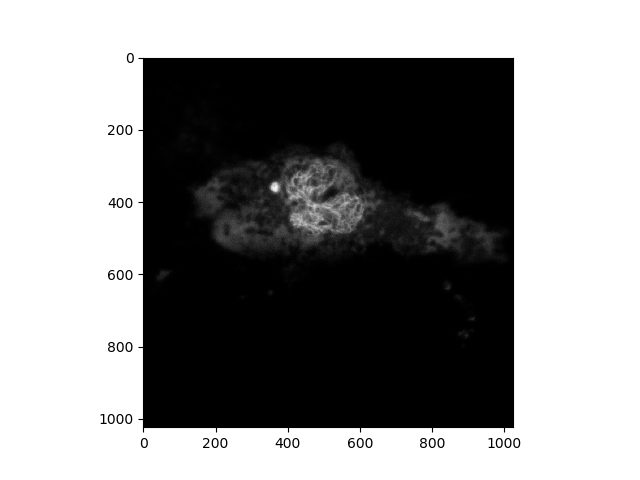
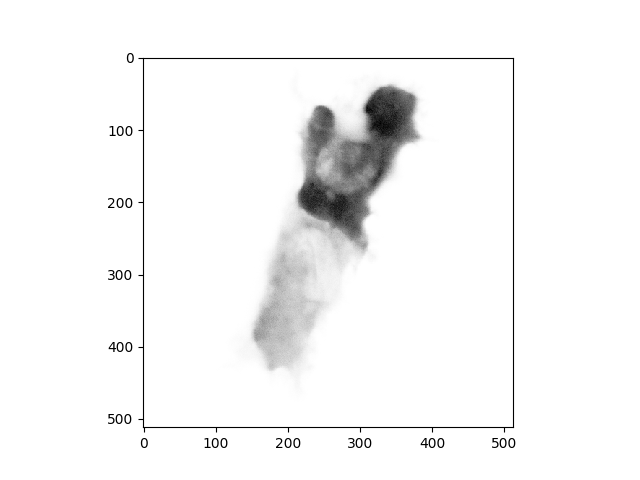
Added fitted lifetime to plot display and added user prompt to select channel for fitting.

diff --git a/app/pythonbackend/main.py b/app/pythonbackend/main.py
@@ -20,8 +20,12 @@ def main():
     FLIMInfo['channelList'] = recon.checkChannelAvailability(recordarray)
     print("******************************")
     print("\nFLIMInfo: ", FLIMInfo, "\n")
+    print("******************************")
+
+    channel = int(input("Select channel (integer): "))
+
     flimarray, intimage = recon.buildFLIMArray(recordarray,
-                                               0,
+                                               channel,
                                                FLIMInfo['LinesInFile'],
                                                FLIMInfo['PixelsX'],
                                                FLIMInfo['PixelsY'],
@@ -30,7 +34,7 @@ def main():
                                                0,
                                                4)
     recordarray = None
-    plt.imshow(intimage, cmap="gray")
+    plt.imshow(intimage, cmap="Greys")
     plt.savefig("imgOutput/out.png")
     plt.show()
 

diff --git a/app/pythonbackend/globalFitting.py b/app/pythonbackend/globalFitting.py
@@ -14,11 +14,13 @@ def globalTailFit(flimarray, FLIMInfo):
     tau_fit, tau_cov = curve_fit(
         expDecay, xaxis[maxVal:endOfData-20], overallDecay[maxVal:endOfData-20], p0=(max(overallDecay), 0, 5))
 
+    lifetime = round(tau_fit[2], 4)
+
+    plt.text(1/2*max(xaxis), max(overallDecay)/2, "Fitted Lifetime: %f ns" % lifetime)
     plt.plot(xaxis[maxVal:endOfData-20],
              expDecay(xaxis, *tau_fit)[maxVal:endOfData-20], 'r-')
-    plt.show()
 
-    lifetime = round(tau_fit[2], 4)
+    plt.show()
 
     return(lifetime)
 
